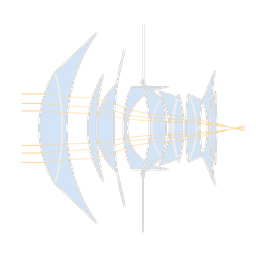
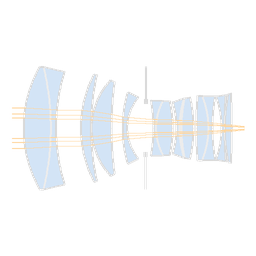
fix: Canon・魚眼・Zuiko のレンズ口径を半径基準に修正
- 全面の aperture を 0.5 倍し、近軸開放 f 値を表記どおり (Canon f/1.199、魚眼 f/2.70、Zuiko f/3.41) にした
- Canon は特許 US2020/0012073 第 1 実施例の有効径と一致することを確認
- 図を再生成

Changed region(s): [[0.0312, 0.125, 0.9688, 0.9062], [0.4688, 0.1875, 0.5, 0.25]]

diff --git a/AGENTS.md b/AGENTS.md
@@ -47,7 +47,7 @@ Accuracy and realism take priority in design decisions. Features with significan
 ## Adding a New Lens
 
 1. Create a `.toml` file in `src/lenses/`. Files are loaded alphabetically — the filename determines the UI enum order
-2. Surface data uses the PBRT convention: radii in mm, positive = center of curvature toward the sensor. `aperture` is the full clear diameter in mm (the shader uses `aperture * 0.5`). PhotonsToPhotos labels its column "semi_diameter" but the values are full diameters — use them directly
+2. Surface data uses the PBRT convention: radii in mm, positive = center of curvature toward the sensor. `aperture` is the full clear diameter in mm (the shader uses `aperture * 0.5`). PhotonsToPhotos labels its column "semi_diameter" but the values are full diameters — use them directly. Patent "effective (ray) diameter" columns are full diameters as well; never double them (a doubled table makes `aperture / 2` exceed `|R|` and the paraxial open f-number come out at half the label)
 3. Exactly one stop per lens: `type = "stop"` with `radius = 0`, `ior = 1.0`. Other surfaces infer their type from `radius` (0 = flat, nonzero = spherical)
 4. Anamorphic lenses: add `squeeze = 2.0` (appropriate factor) to `[lens]` — the shader scales sensor X coordinates by it to desqueeze the output. Spherical lenses omit it (default 1.0). Optionally add a `[focus]` section for variable element spacing (below); without it, unit focusing (sensor-plane movement only)
 5. Regenerate diagrams with `uv run scripts/build_diagrams.py`, then update the "Included Lenses" lists in `README.md` / `README.en.md`
